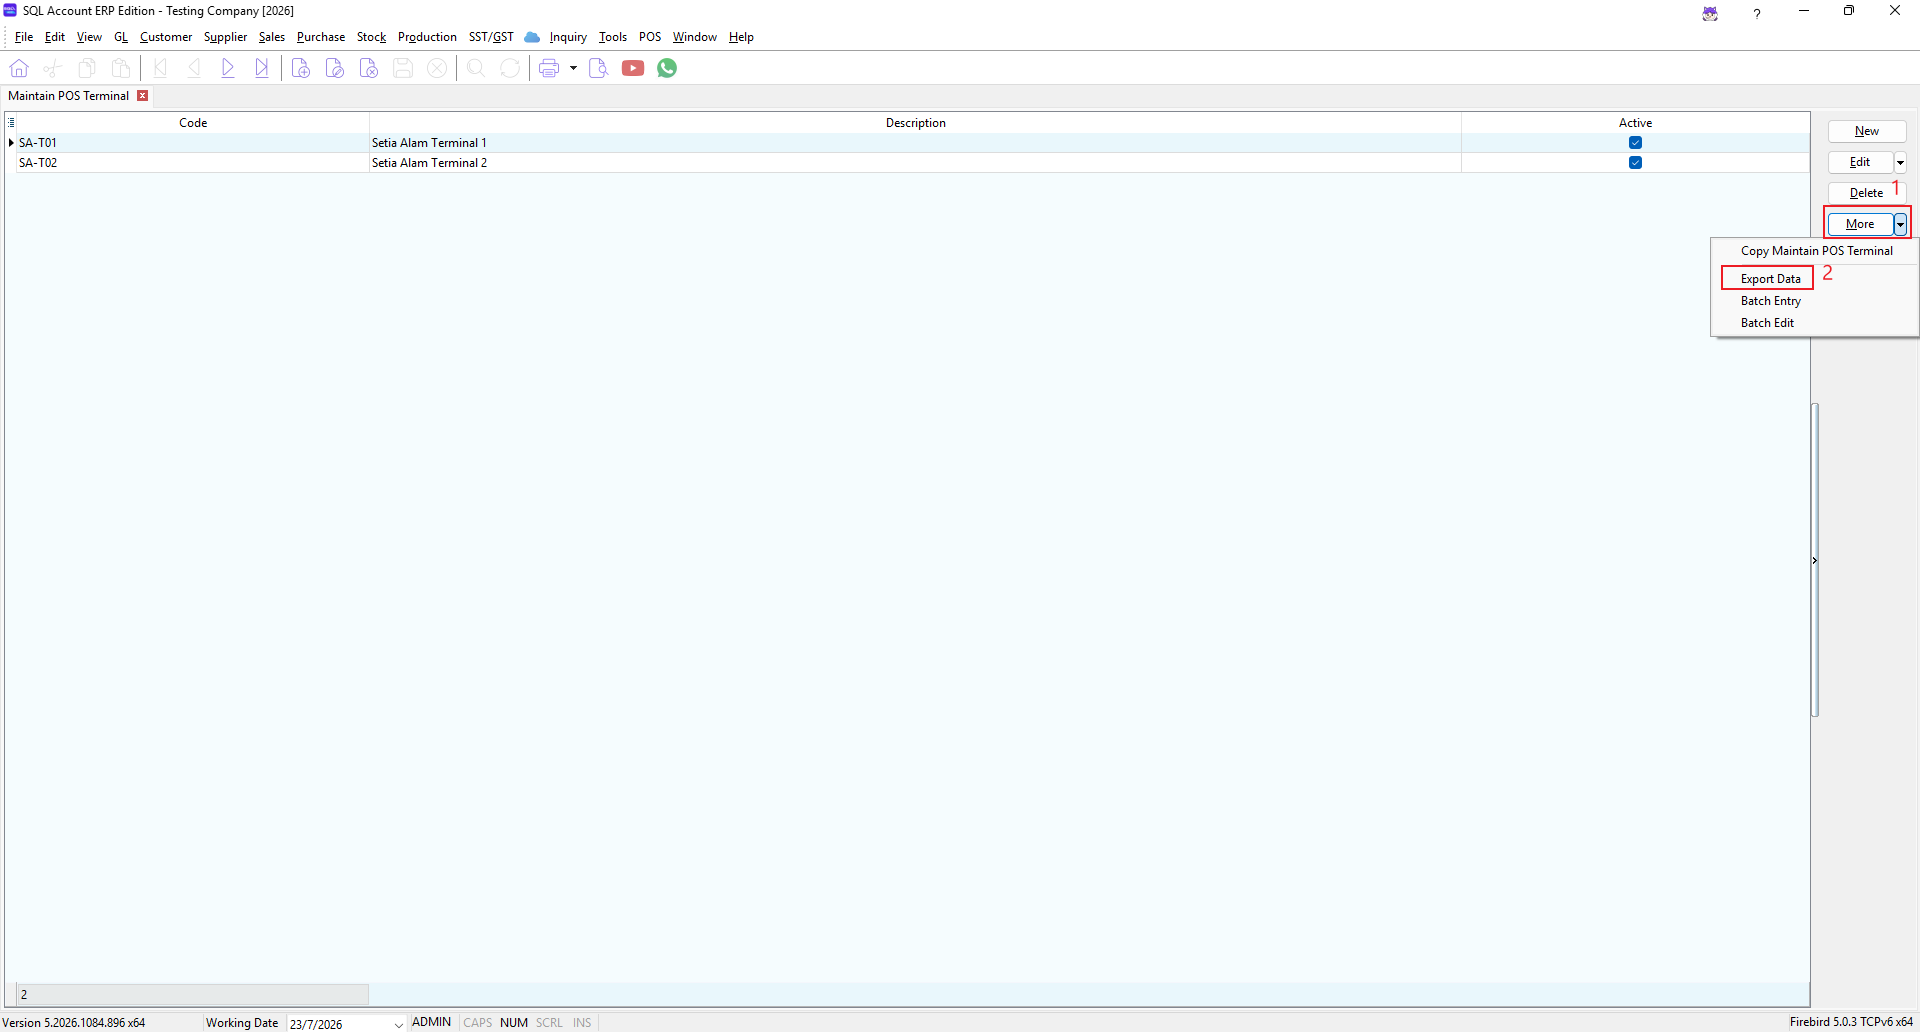
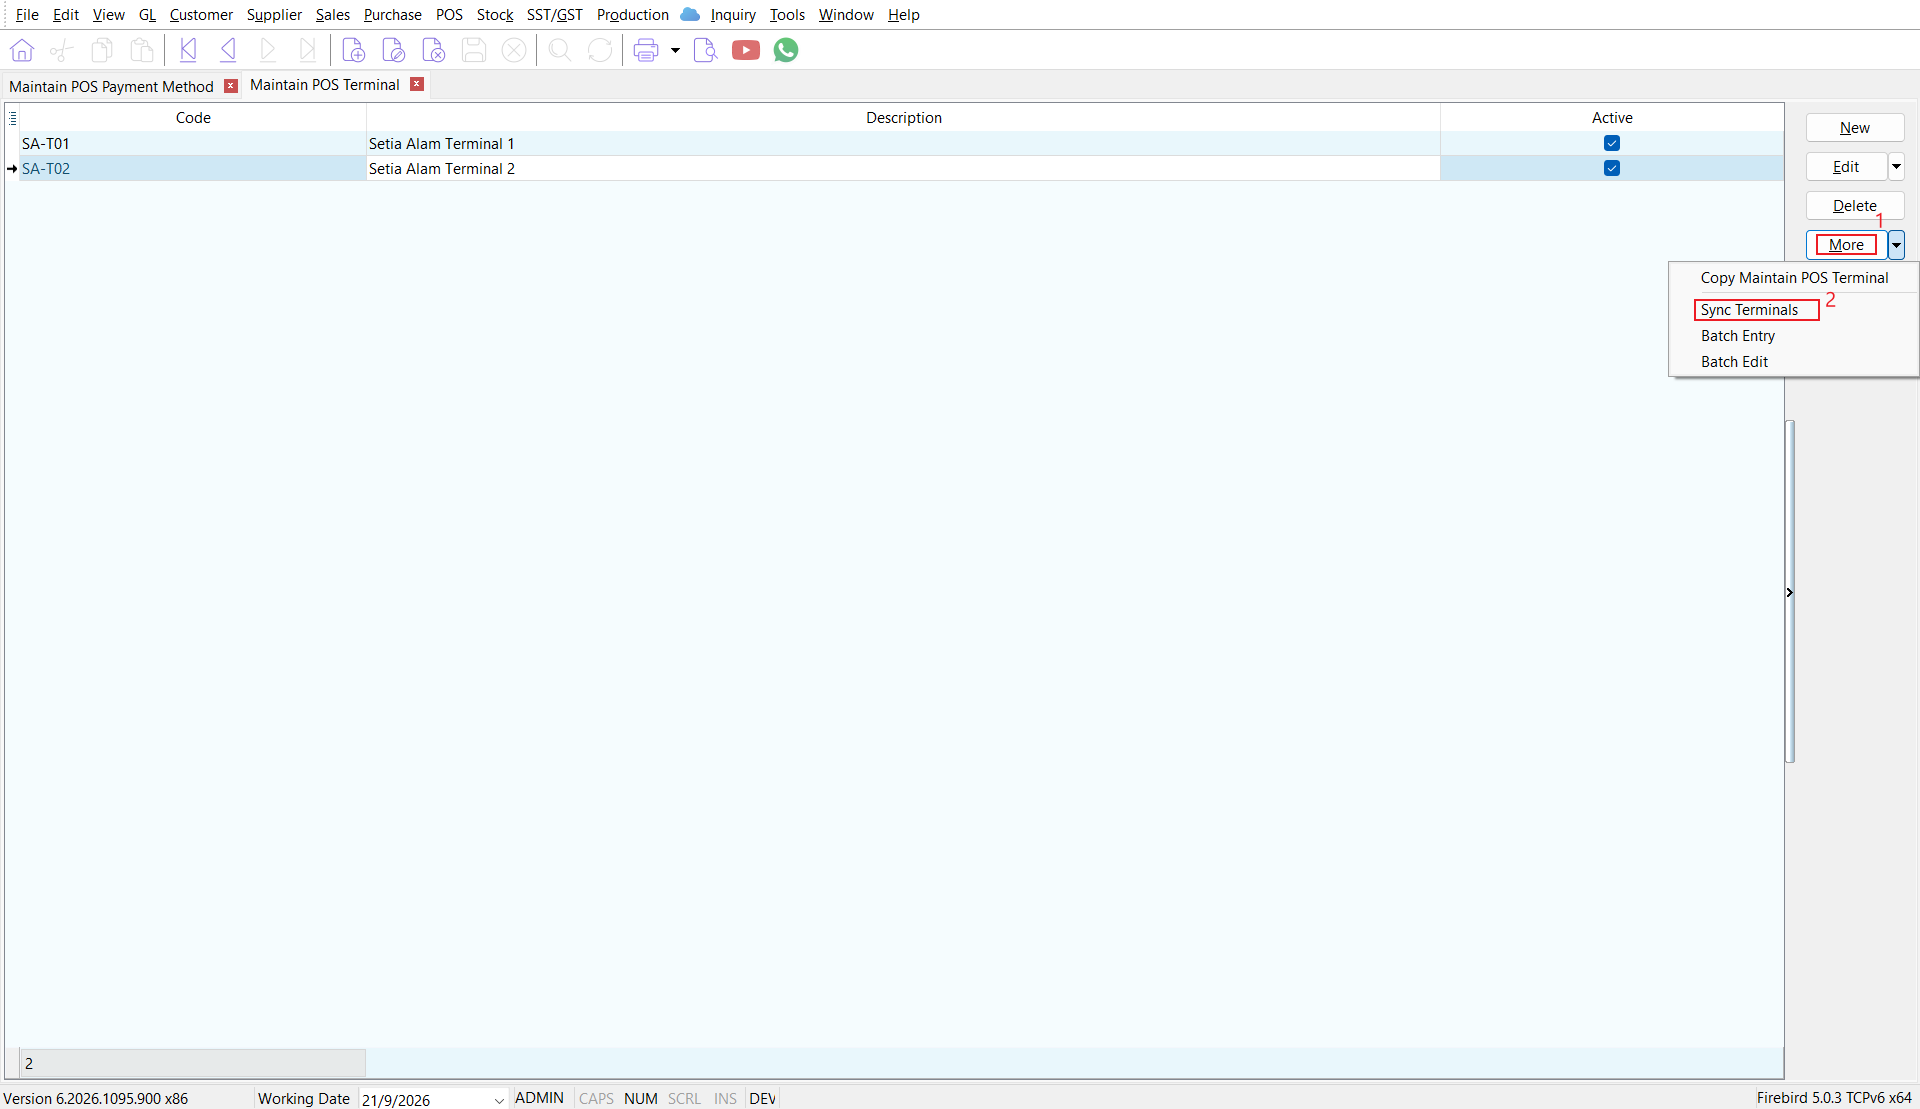
feat: add payment provider in pos payment method

diff --git a/docs/usage/xpos/guide.md b/docs/usage/xpos/guide.md
@@ -47,6 +47,7 @@ The browse screen displays the profile code, description, and active status. The
 | **Default Customer Code** | Customer code used for POS cash sales when no customer is selected. |
 | **Default Price Tag** | Price tag used as the default selling price source. |
 | **Default Custom Item Code** | Item code used when a cashier enters a custom or non-catalogue item. |
+| **Default Promotion Item Code** | Item code used to group the promotion items. |
 | **Default Discount Item Code** | Item code used to post POS discounts. |
 | **Default Rounding Item Code** | Item code used to post rounding differences. |
 
@@ -148,11 +149,11 @@ Use **Maintain POS Payment Method** to configure the payment buttons available a
 
 | Field | Description |
 | --- | --- |
-| **Type** | Select the payment category: <br /> 1. Cash <br /> 2. Bank <br /> 3. Card <br /> 4. E-Wallet |
-| **Currency** | Select the payment currency. For foreign-currency payments, select the applicable currency; the displayed rate uses the current selling rate. |
+| **Type** | Select the payment category: <br /> 1. Cash <br /> 2. Card <br /> 3. E-Wallet (Scan) <br /> 4. E-Wallet (Duitnow) | 
 | **Sequence No** | Controls the payment method display order. Use consecutive numbers, such as `1`, `2`, and `3`. |
 | **Rounding** | Select **No rounding** or **5 cents rounding**. Use 5-cent rounding only when required for cash payments. |
 | **Print Receipt (pcs)** | Enter the number of receipt copies to print. A maximum of three copies is allowed. |
+| **Payment Provider** | Select the payment provider: <br /> 1. Not applicable <br /> 2. Fiuu <br /> 3. Gkash <br /> 4. Adaptis |
 | **Must Fill Ref. No** | Requires the cashier to enter a reference number before completing payment. This is useful for card, bank transfer, and e-wallet payments. |
 | **Kick Drawer** | Opens the cash drawer when this payment method is used. This option should normally be enabled only for cash payments. |
 | **Picture** | Optionally add an image or logo for the payment method. |
@@ -165,9 +166,10 @@ Click **Save** to save the payment method.
 
 | Payment Method | Type | GL Code | Suggested Setup |
 | --- | --- | --- | --- |
-| Cash | Cash | Cash-on-hand payment method | Set as active and default, assign sequence number `1`, and enable **Kick Drawer**. Enable 5-cent rounding only if applicable. |
-| Card terminal | Card | Card or bank clearing payment method | Set as active, require a reference number, assign sequence number `2`, and leave **Kick Drawer** cleared. |
-| E-wallet | E-Wallet | E-wallet clearing payment method | Set as active and assign sequence number `3`. Require a reference number when it is needed for reconciliation. |
+| Cash | Cash | Cash-on-hand payment method | Set as active and default and enable **Kick Drawer**. Enable 5-cent rounding only if applicable. |
+| Card terminal | Card | Card or bank clearing payment method | Set as active, require a reference number and leave **Kick Drawer** cleared. |
+| E-wallet (Scan) | E-Wallet (Scan) | Cashier scan QR Code presented by customer | Set as active and require a **reference number** when it is needed for reconciliation. |
+| E-wallet (Duitnow) | E-Wallet (Duitnow) | Cashier present QR Code to customer | Set as active and require a **reference number** when it is needed for reconciliation. |
 
 :::info[Payment Method Checklist]
 - Ensure every POS payment method is mapped to the correct **GL Code** before processing live sales.
@@ -319,12 +321,12 @@ The download process also creates a UUID when needed and updates the terminal's 
 
 ### Export masterdata for Multiple Terminals
 
-From the terminal browse screen, click **More** > **Export Data**.
+From the terminal browse screen, click **More** > **Sync Terminal**.
 
 ![Open Export Data](../../../static/img/usage/xpos/pos-masterdata-export-menu.png)
 
 1. Select one or more terminals in the export list.
-2. Click **Export**.
+2. Click **Sync Terminal**.
 3. Review the completion message for the number of successful uploads and any failed terminal codes.
 
 ![Select terminals to export](../../../static/img/usage/xpos/pos-masterdata-export-selection.png)
